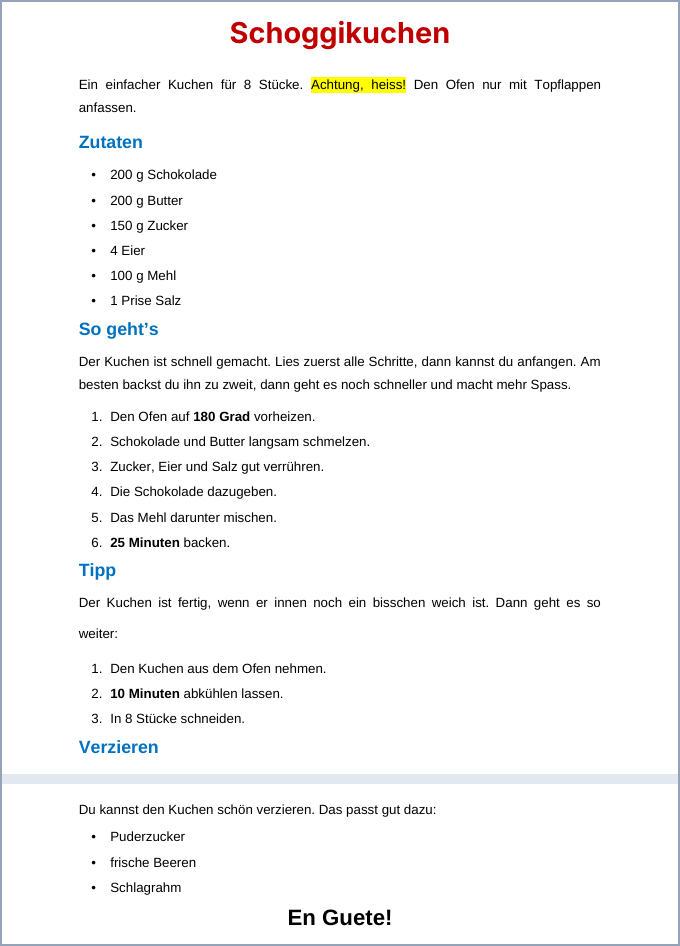
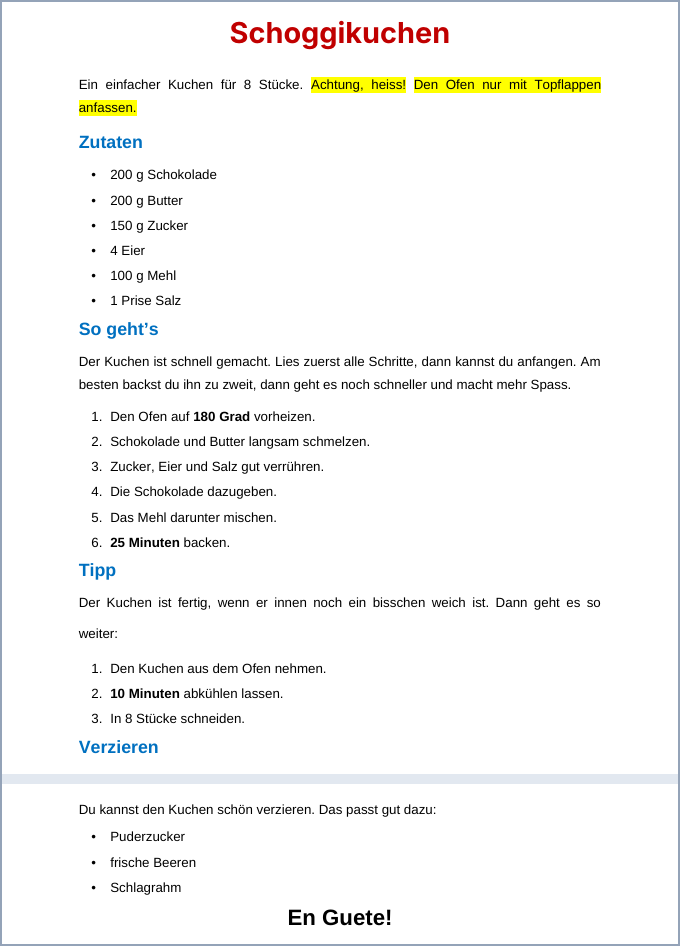
Word-Führerschein: restliche Wiederholungen zurück (fett, Pinsel, Aufzählung, zentriert)
Claude-Session: https://claude.ai/code/session_01DxcwozY8YnNsB45PjCnVcF

Changed region(s): [[0.6176, 0.0613, 0.8956, 0.1226], [0.0926, 0.092, 0.2162, 0.1226]]

diff --git a/Informatik Word-Fuehrerschein.html b/Informatik Word-Fuehrerschein.html
@@ -468,7 +468,7 @@
           help: ['Einen ganzen Satz markieren: Maus vor das erste Wort, gedrückt halten, bis zum Punkt ziehen.', 'Falsch gemacht? Ctrl + Z macht den letzten Schritt rückgängig.', 'Die 5 Zahlen: 150, 23, 600 000, 80, 1.'],
           proof: 'Titel gross und fett, 5 Zahlen fett, 2 Wörter kursiv und unterstrichen, 2 Sätze gelb.' },
         { id: 'w1_m3', st: 3, nr: ['W1.3'], type: 'mission', q: 'Mission W1.3: Nochmals, im gleichen Text',
-          steps: ['Im Text hat es <b>5 Ortsnamen</b>: Schaffhausen, Neuhausen, Laufen, Bodensee, Zürich. Mach alle 5 <b>kursiv</b> und <b>unterstrichen</b>.', 'Gib dem Titel die Farbe <b>Dunkelblau</b>.', 'Der letzte Abschnitt beginnt mit «Jedes Jahr …». Gib dort dem 1. Satz die Farbe <b>Blau</b>, dem 2. <b>Grün</b> und dem 3. <b>Lila</b>.', 'Im Satz «Der Wasserfall ist etwa 150 Meter breit …»: Mach das Wort «Wasserfall» <b>fett</b> und in der Farbe <b>Rot</b>.', ...FERTIG('Rheinfall')],
+          steps: ['Im Text hat es <b>5 Ortsnamen</b>: Schaffhausen, Neuhausen, Laufen, Bodensee, Zürich. Mach alle 5 <b>kursiv</b> und <b>unterstrichen</b>.', 'Gib dem Titel die Farbe <b>Dunkelblau</b>.', 'Der letzte Abschnitt beginnt mit «Jedes Jahr …». Gib dort dem 1. Satz die Farbe <b>Blau</b>, dem 2. <b>Grün</b> und dem 3. <b>Lila</b>.', 'Im Satz «Der Wasserfall ist etwa 150 Meter breit …»: Mach das Wort «Wasserfall» <b>fett</b> und in der Farbe <b>Rot</b>. Mach auch «Feuerwerk» im letzten Satz <b>fett</b>.', ...FERTIG('Rheinfall')],
           help: [ABG_HELP, 'Vergessen, wie es geht? Tippe auf «📖 Kurz erklärt».', 'Word nicht mehr offen? Teams › Aufgabenbearbeitung › MI › Word › ⋯ › In App öffnen.'],
           proof: 'Orte kursiv und unterstrichen, Titel farbig, letzter Abschnitt bunt, «Wasserfall» rot. Die Datei ist in «Abgabe».' }
       ],
@@ -520,7 +520,7 @@
           help: ['Die Knöpfe für Listen sind im Reiter Start, links oben in der Gruppe «Absatz».', 'Nur die Zeilen markieren, die in die Liste gehören, nicht den Abschnitt darüber.'],
           proof: 'Zutaten und Verzieren mit Punkten, Schritte mit 1. bis 6.' },
         { id: 'w2_m4', st: 3, nr: ['W2.4'], type: 'mission', q: 'Mission W2.4: Nochmals, im gleichen Rezept',
-          steps: ['Das Rezept hat <b>4 Zwischentitel</b>: Zutaten, So geht’s, Tipp, Verzieren. Mach «Zutaten» <b>fett</b>, Farbe <b>Blau</b>, Grösse <b>16</b>.', 'Klicke in «Zutaten». <b>Doppelklick</b> auf den <b>Pinsel</b> und fahr über «So geht’s», «Tipp» und «Verzieren». Dann Esc.', 'Unter «Tipp» stehen <b>3 Schritte</b> (von «Den Kuchen aus dem Ofen …» bis «In 8 Stücke schneiden.»). Mach daraus eine <b>Nummerierung</b>.', 'Der Abschnitt «Du kannst den Kuchen schön verzieren …»: <b>Blocksatz</b>. Ganz unten «En Guete!»: <b>zentriert</b>, Grösse <b>20</b>, <b>fett</b>.', 'Klicke in den Abschnitt unter «Tipp». Stell nur dort den <b>Zeilenabstand 2,0</b> ein.', ...FERTIG('Rezept')],
+          steps: ['Das Rezept hat <b>4 Zwischentitel</b>: Zutaten, So geht’s, Tipp, Verzieren. Mach «Zutaten» <b>fett</b>, Farbe <b>Blau</b>, Grösse <b>16</b>.', 'Klicke in «Zutaten». <b>Doppelklick</b> auf den <b>Pinsel</b> und fahr über «So geht’s», «Tipp» und «Verzieren». Dann Esc.', 'Unter «Tipp» stehen <b>3 Schritte</b> (von «Den Kuchen aus dem Ofen …» bis «In 8 Stücke schneiden.»). Mach daraus eine <b>Nummerierung</b>.', 'Der Abschnitt «Du kannst den Kuchen schön verzieren …»: <b>Blocksatz</b>. Ganz unten «En Guete!»: <b>zentriert</b>, Grösse <b>20</b>, <b>fett</b>.', 'Klicke in den Abschnitt unter «Tipp». Stell nur dort den <b>Zeilenabstand 2,0</b> ein.', 'Klicke in «Achtung, heiss!» (gelb). Klicke <b>einmal</b> auf den <b>Pinsel</b> und fahr über «Den Ofen nur mit Topflappen anfassen.»: Jetzt ist auch dieser Satz gelb.', ...FERTIG('Rezept')],
           help: [ABG_HELP, AUF_HELP, 'Pinsel nicht gefunden? Reiter Start, ganz links, unter «Einfügen».'],
           proof: '4 Zwischentitel gleich, Tipp mit 1. 2. 3., «En Guete!» in der Mitte. Die Datei ist in «Abgabe».' }
       ],
@@ -788,11 +788,11 @@
           help: [DL_HELP, REN_HELP, APP_HELP, AUF_HELP],
           proof: '«Informatik_Projektarbeit» liegt in MI › Word. Titel in der Mitte und farbig, ein Bild mit Text daneben.' },
         { id: 'w7_m2', st: 3, nr: ['W7.2'], type: 'mission', q: 'Mission W7.2: Kopfzeile, Seitenzahl, neue Seite',
-          steps: ['Klicke vor das Kapitel «Packliste» und drück <b>Ctrl + Enter</b>: Die Packliste beginnt auf einer neuen Seite.', '<b>Einfügen › Kopfzeile › Leer</b>. Schreib deinen <b>Vornamen</b> hinein.', '<b>Einfügen › Seitenzahl › Seitenende</b> › einfache Zahl in der Mitte.', 'Klicke auf «Kopf- und Fusszeile schliessen». Ctrl + S.'],
+          steps: ['Klicke vor das Kapitel «Packliste» und drück <b>Ctrl + Enter</b>: Die Packliste beginnt auf einer neuen Seite. Mach aus den 6 Zeilen der Packliste eine <b>Aufzählung</b>.', '<b>Einfügen › Kopfzeile › Leer</b>. Schreib deinen <b>Vornamen</b> hinein.', '<b>Einfügen › Seitenzahl › Seitenende</b> › einfache Zahl in der Mitte.', 'Klicke auf «Kopf- und Fusszeile schliessen». Ctrl + S.'],
           help: ['Zurück in den Text? Doppelklick in den normalen Text oder Esc.', 'Schau mit dem Mausrad nach unten: Hat jede Seite ihre Zahl?'],
           proof: 'Die Packliste ist auf einer eigenen Seite. Oben steht dein Vorname, unten die Seitenzahl.' },
         { id: 'w7_m3', st: 3, nr: ['W7.3'], type: 'mission', q: 'Mission W7.3: Nochmals, in der gleichen Projektarbeit',
-          steps: ['<b>Layout › Seitenränder › Schmal</b>. Schau: Der Text rutscht nach oben. Dann wieder <b>Normal</b>.', '<b>Layout › Ausrichtung › Querformat</b>. Schau, wie sich die Seiten verändern. Dann wieder <b>Hochformat</b>.', 'Klicke vor das Kapitel «Das Programm» und drück <b>Ctrl + Enter</b>. Jetzt hat die Arbeit 3 Seiten.', 'Doppelklick in die Kopfzeile. Schreib hinter deinen Vornamen: <b>· Projektarbeit</b>. Schliessen.', 'Füge auf der Seite mit der Packliste ein kleines Bild von einem <b>Rucksack</b> ein: <b>Vor den Text</b>, frei neben die Liste schieben.', 'Scroll durch alle Seiten: Hat jede Seite oben den Vornamen und unten die richtige Seitenzahl? Ctrl + S.'],
+          steps: ['<b>Layout › Seitenränder › Schmal</b>. Schau: Der Text rutscht nach oben. Dann wieder <b>Normal</b>.', '<b>Layout › Ausrichtung › Querformat</b>. Schau, wie sich die Seiten verändern. Dann wieder <b>Hochformat</b>.', 'Klicke vor das Kapitel «Das Programm» und drück <b>Ctrl + Enter</b>. Jetzt hat die Arbeit 3 Seiten.', 'Doppelklick in die Kopfzeile. Schreib hinter deinen Vornamen: <b>· Projektarbeit</b> und mach die Kopfzeile <b>zentriert</b>. Schliessen.', 'Füge auf der Seite mit der Packliste ein kleines Bild von einem <b>Rucksack</b> ein: <b>Vor den Text</b>, frei neben die Liste schieben.', 'Scroll durch alle Seiten: Hat jede Seite oben den Vornamen und unten die richtige Seitenzahl? Ctrl + S.'],
           help: [AUF_HELP, 'Eine leere Seite zu viel? Mit ¶ siehst du den Seitenumbruch. Lösch ihn mit der Rücktaste ⌫.'],
           proof: '3 Seiten, Hochformat, jede mit «Vorname · Projektarbeit» oben und der richtigen Seitenzahl unten.' },
         { id: 'w7_m4', st: 3, nr: ['W7.4'], type: 'mission', q: 'Mission W7.4: Als PDF abgeben',
